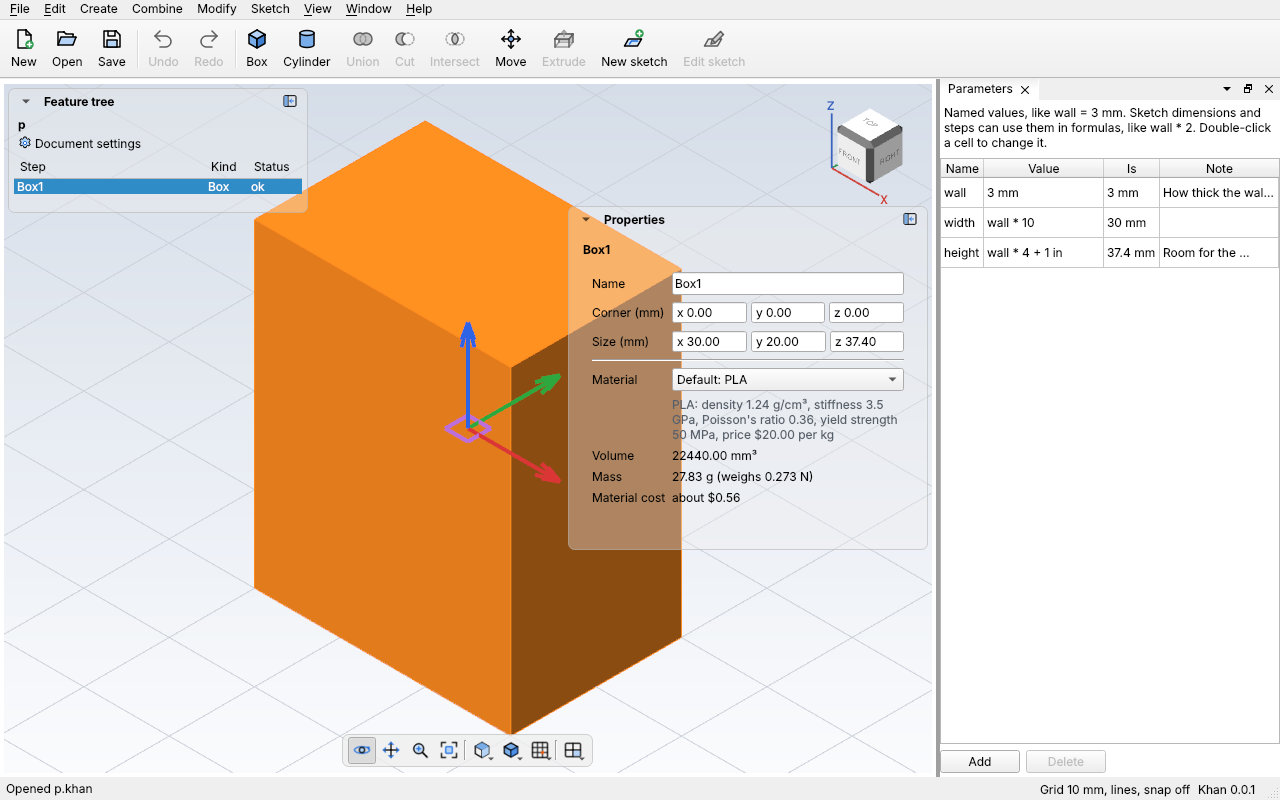
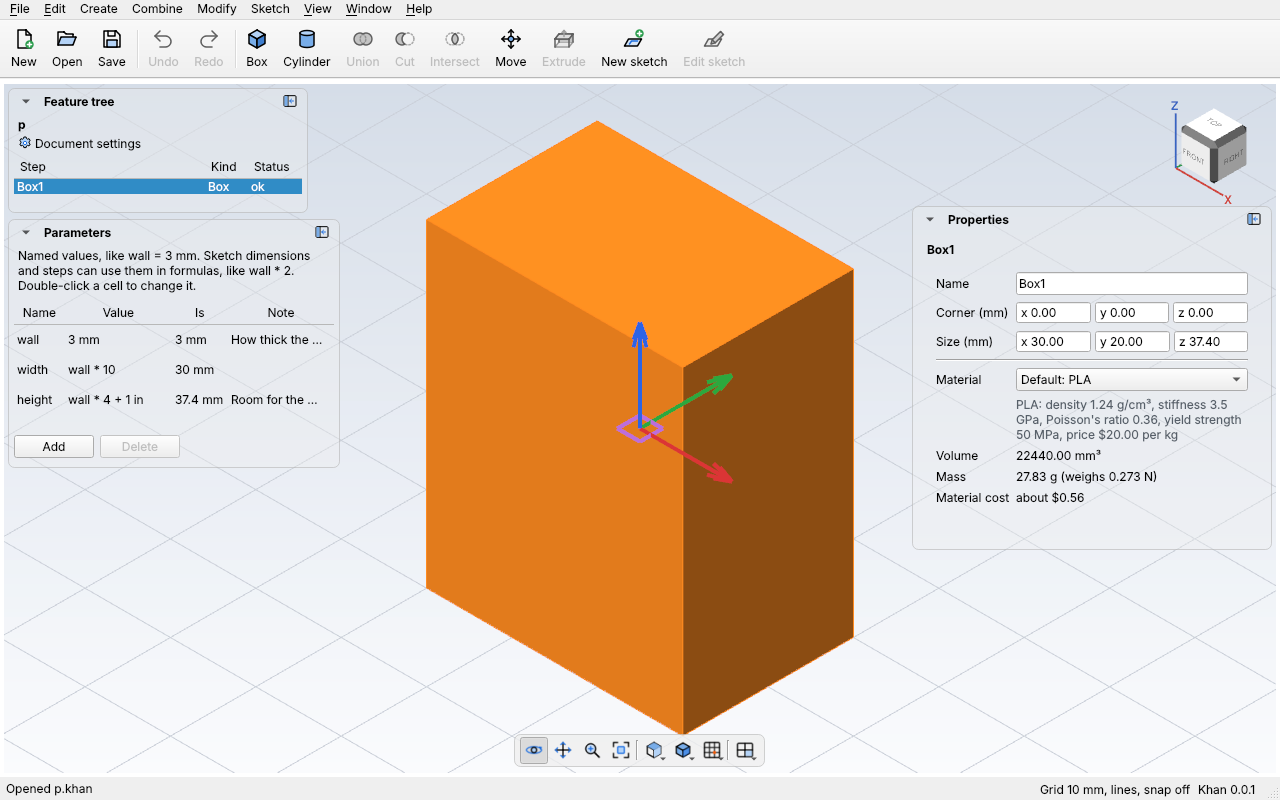
Float the Parameters panel over the view, like the other panels
The Parameters panel now opens see-through over the 3D view, under the
feature tree at the top left, like the feature tree and Properties, and
is as tall as its rows (the table sizes itself to them). It folds,
resizes and docks like the others, and Khan remembers which.

- Tests: it floats when opened, and grows as parameters are added.
- Docs: Parameters and the app guide; the picture is re-rendered.

Claude-Session: https://claude.ai/code/session_01Lv5cQUVbfQ1HjNSJ67C2eP

diff --git a/plugins/parameters/ParametersPlugin.cpp b/plugins/parameters/ParametersPlugin.cpp
@@ -8,6 +8,7 @@
 #include <QTableWidget>
 #include <QVBoxLayout>
 
+#include <algorithm>
 #include <set>
 #include <string>
 #include <vector>
@@ -43,6 +44,7 @@ class ParametersPanel final : public QWidget {
 public:
     ParametersPanel(plugin::PluginContext& ctx, ui::UiRegistry& ui) : ctx_(ctx), ui_(ui) {
         setObjectName(QStringLiteral("kh.parameters.widget"));
+        setMinimumWidth(320);
         auto* about =
             new QLabel(tr("Named values, like wall = 3 mm. Sketch dimensions and steps can use them in "
                           "formulas, like wall * 2. Double-click a cell to change it."),
@@ -53,6 +55,8 @@ public:
         table_->setObjectName(QStringLiteral("kh.parameters.table"));
         table_->setHorizontalHeaderLabels({tr("Name"), tr("Value"), tr("Is"), tr("Note")});
         table_->verticalHeader()->hide();
+        // As tall as its rows, so floating over the view it covers no more than it needs.
+        table_->setSizeAdjustPolicy(QAbstractScrollArea::AdjustToContents);
         table_->setSelectionBehavior(QAbstractItemView::SelectRows);
         table_->setEditTriggers(QAbstractItemView::DoubleClicked | QAbstractItemView::EditKeyPressed |
                                 QAbstractItemView::AnyKeyPressed);
@@ -149,6 +153,7 @@ private:
         filling_ = false;
         add_->setEnabled(doc != nullptr);
         showButtons();
+        table_->updateGeometry();
         updateGeometry();
     }
 
@@ -236,9 +241,10 @@ void registerParameters(plugin::PluginContext& ctx) {
         ctx.log("No desktop app here, so the Parameters panel isn't shown.");
         return;
     }
-    ui::PanelSpec spec{kPanelId, QObject::tr("Parameters"), ui::PanelArea::Right,
+    ui::PanelSpec spec{kPanelId, QObject::tr("Parameters"), ui::PanelArea::Left,
                        [&ctx, ui] { return new ParametersPanel(ctx, *ui); }};
-    spec.startHidden = true;  // Modify > Parameters opens it
+    spec.startHidden = true;     // Modify > Parameters opens it
+    spec.floatsOverView = true;  // see-through over the view, under the feature tree, like the other panels
     ui->addPanel(std::move(spec));
     ctx.addAction(plugin::ActionSpec{.id = "kh.parameters.show",
                                      .text = "Parameters",

diff --git a/tests/app/test_parameters_panel.cpp b/tests/app/test_parameters_panel.cpp
@@ -21,6 +21,7 @@
 #include "kh/plugin/PluginHost.h"
 #include "kh/plugins/Modeling.h"
 #include "kh/plugins/Parameters.h"
+#include "kh/plugins/Viewer.h"
 #include "kh/sketch_planegcs/PlaneGcsSolver.h"
 
 using namespace kh;
@@ -47,6 +48,7 @@ struct App {
         host.setSettings(pluginSettings);
         host.addBuiltin(plugins::modelingPlugin());
         host.addBuiltin(plugins::parametersPlugin());
+        host.addBuiltin(plugins::viewerPlugin());
         host.loadAll();
         shell = std::make_unique<app::Shell>(host, ui, settings);
         shell->askUnsaved = [](const QString&) { return app::Shell::Unsaved::Discard; };
@@ -60,6 +62,10 @@ struct App {
         auto* panel = shell->panelWidget(QStringLiteral("kh.parameters.panel"));
         REQUIRE(panel);
         CHECK(panel->isVisible());
+        // It floats over the view, see-through, like the feature tree and Properties.
+        CHECK(shell->overView(QStringLiteral("kh.parameters.panel")));
+        REQUIRE(shell->overlay(QStringLiteral("kh.parameters.panel")));
+        CHECK(shell->overlay(QStringLiteral("kh.parameters.panel"))->isVisible());
         table = panel->findChild<QTableWidget*>(QStringLiteral("kh.parameters.table"));
         REQUIRE(table);
     }
@@ -144,7 +150,17 @@ TEST_CASE("Add adds a parameter ready to name; Delete deletes the picked ones", 
     REQUIRE(add);
     REQUIRE(remove);
     CHECK_FALSE(remove->isEnabled());  // nothing picked
+    auto* frame = app.shell->overlay(QStringLiteral("kh.parameters.panel"));
+    const int emptyHeight = frame->height();
     add->click();
+    settle();
+    REQUIRE(app.table->rowCount() == 1);
+    add->click();
+    add->click();
+    settle();
+    CHECK(frame->height() > emptyHeight);  // floating, it grows with its rows
+    app.host.documents().undo(app.shell->activeDesign());
+    app.host.documents().undo(app.shell->activeDesign());
     settle();
     REQUIRE(app.table->rowCount() == 1);
     CHECK(app.cell(0, 0) == "size1");

diff --git a/docs/user-guide/desktop-app.md b/docs/user-guide/desktop-app.md
@@ -127,10 +127,11 @@ set the environment variable `KH_NO_3D` to `1` before starting Khan (on Windows:
 
 ## Panels over the viewer
 
-The feature tree, Properties, the Sketch panel and View options float over the
-viewer, like the browser and dialogs in other CAD programs, so your part gets the
+The feature tree, Properties, the Parameters panel, the Sketch panel and View
+options float over the viewer, like the browser and dialogs in other CAD programs, so your part gets the
 whole window. They're see-through, and only as tall as what's in them, so they
-cover as little of your part as they can. The feature tree is at the top left;
+cover as little of your part as they can. The feature tree is at the top left,
+with Parameters under it when it's open;
 Properties is at the top right, under the view cube, with the Sketch panel
 (while you edit a sketch) and View options under it.
 
@@ -199,7 +200,8 @@ The grid's spacing is a View option, not part of the design: it stays in mm.
 
 ## Parameters
 
-**Modify > Parameters** opens the Parameters panel: the design's named values,
+**Modify > Parameters** opens the Parameters panel, floating over the view under
+the feature tree: the design's named values,
 like `wall = 3 mm`, that sketch dimensions and steps can use in formulas. Type
 in it to add, change, rename or delete them. See
 [Parameters](parameters.md#in-the-desktop-app).

diff --git a/docs/user-guide/parameters.md b/docs/user-guide/parameters.md
@@ -13,7 +13,10 @@ can use them. Add and change them in the desktop app's
 
 ## In the desktop app
 
-**Modify > Parameters** opens the Parameters panel, beside the 3D view:
+**Modify > Parameters** opens the Parameters panel. Like the feature tree and
+Properties, it floats over the 3D view, see-through, under the feature tree,
+and is as tall as its rows. Its title bar folds it up or docks it beside the
+view, the same as theirs (see [Panels over the viewer](desktop-app.md#panels-over-the-viewer)):
 
 ![The Parameters panel: wall, width and height, with what each works out to; the box's size uses width and height](images/app-parameters.png)
 
